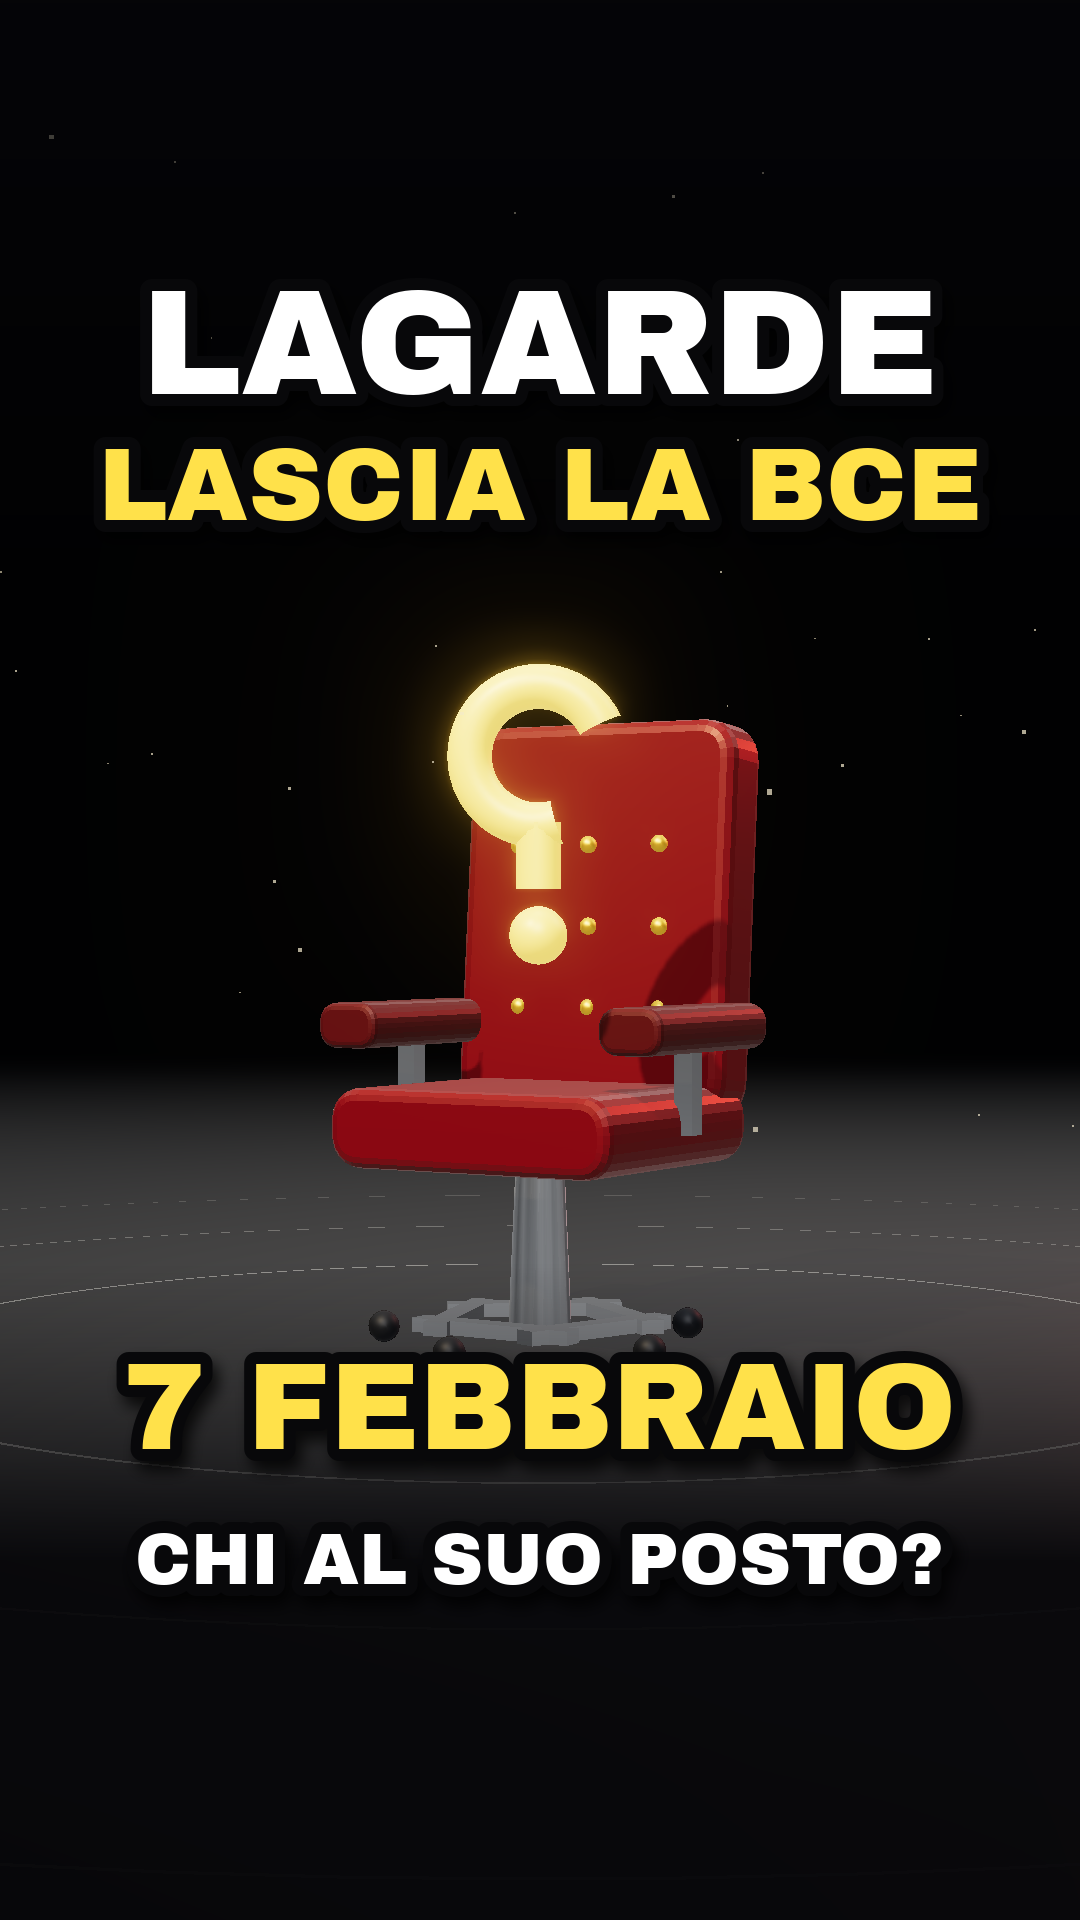
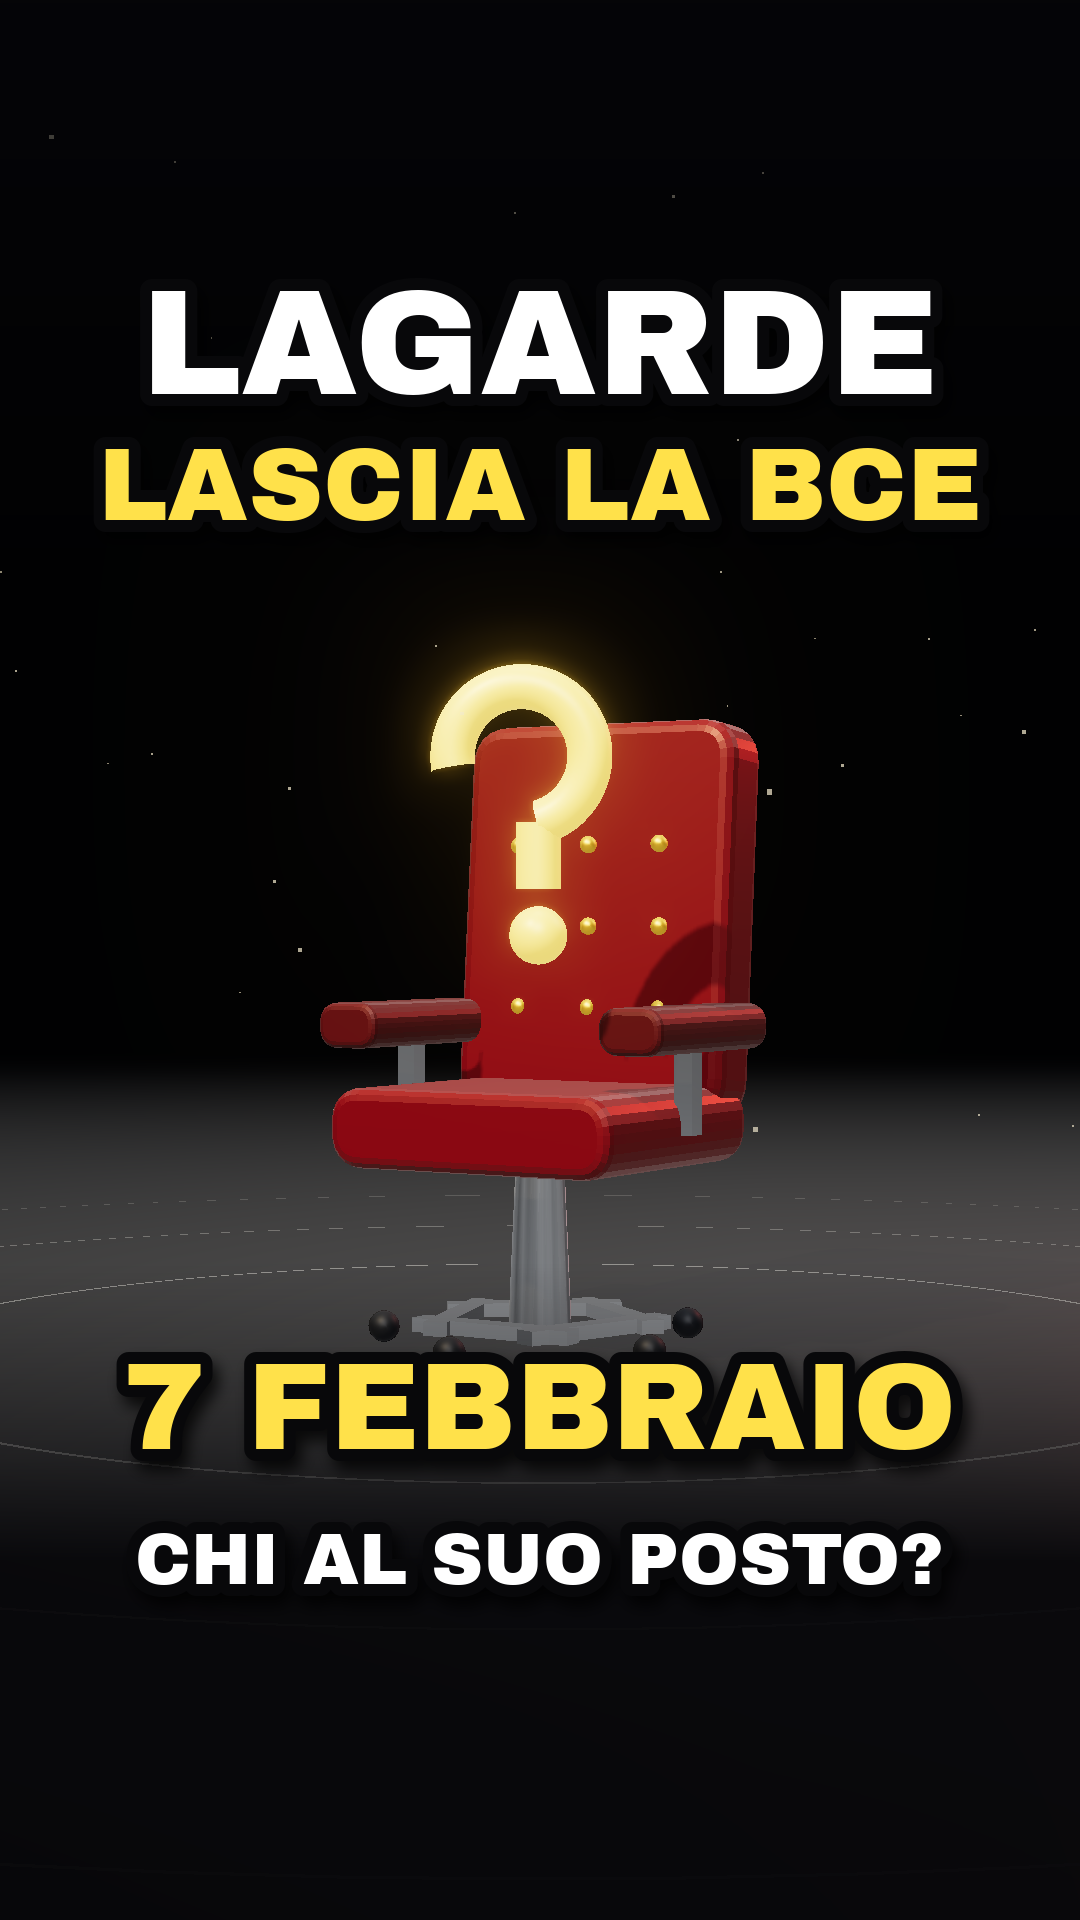
Punto interrogativo 3D corretto (era specchiato) e copertina short 002 rifatta

Changed region(s): [[0.3972, 0.3438, 0.5806, 0.4375], [0.5806, 0.5, 0.6417, 0.5625], [0.6111, 0.4688, 0.6417, 0.5]]

diff --git a/nuovo_canale_italia/code/lib/s002.js b/nuovo_canale_italia/code/lib/s002.js
@@ -48,9 +48,10 @@ export function card(m){const g=new THREE.Group();
   add(g,new THREE.Mesh(new THREE.BoxGeometry(.5,.38,.02),m.gold),-.75,.28,.07);add(g,new THREE.Mesh(new THREE.BoxGeometry(1.9,.1,.02),m.paper),.0,-.45,.06);add(g,new THREE.Mesh(new THREE.BoxGeometry(1.2,.07,.02),m.paper),-.35,-.62,.06);
   return g;}
 export function question(m){const g=new THREE.Group();
-  const arc=add(g,new THREE.Mesh(new THREE.TorusGeometry(.52,.17,18,40,Math.PI*1.45),m.yel),0,.75,0);arc.rotation.z=Math.PI*.14;
-  add(g,new THREE.Mesh(new THREE.CylinderGeometry(.17,.17,.5,18),m.yel),.0,.0,0);
-  const dotm=add(g,new THREE.Mesh(new THREE.SphereGeometry(.22,18,18),m.yel),0,-.6,0);
+  // punto interrogativo corretto: l'arco parte a sinistra, passa sopra, scende a destra e curva verso il centro (arco CCW da -75 a 190 gradi)
+  const arc=add(g,new THREE.Mesh(new THREE.TorusGeometry(.52,.17,18,48,Math.PI*1.47),m.yel),-.13,.75,0);arc.rotation.z=-Math.PI*.4167;
+  add(g,new THREE.Mesh(new THREE.CylinderGeometry(.17,.17,.5,18),m.yel),0,0,0);
+  add(g,new THREE.Mesh(new THREE.SphereGeometry(.22,18,18),m.yel),0,-.6,0);
   return g;}
 // quadrante (tasso): lancetta ruotabile, 0-6 %
 export function dial(m,{R=1.5}={}){const g=new THREE.Group();
